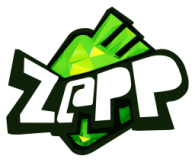
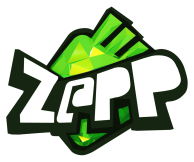
Added direct link to Giel on main page
Regenerate some images from original size to icon size

diff --git a/uitzendinggemist/dune/index.php b/uitzendinggemist/dune/index.php
@@ -20,17 +20,18 @@ async_icon_loading = yes
 	echo "background_order=before_all\n";
 	echo "background_path=$imgdir/background.jpg\n";
 
-    $varagemisturl = dirname($baseurl).'/varagemist/dune/';
+    $varagemisturl = dirname($baseurl).'/varagemist/';
     
     writeIcon($num++, 'Favorieten', 'dune_'.$baseurl.'/favorites.php', $imgdir.'/favorites.png');
     writeIcon($num++, 'Vandaag', 'dune_'.$baseurl.'/afleveringen.php?when=vandaag', $imgdir.'/uitzendinggemist_250.png');
     writeIcon($num++, 'Gisteren', 'dune_'.$baseurl.'/afleveringen.php?when=gisteren', $imgdir.'/uitzendinggemist_250.png');
 	writeIcon($num++, 'Genres', 'dune_'.$baseurl.'/genres.php', $imgdir.'/uitzendinggemist_250.png');
-	writeIcon($num++, 'Omroepen', 'dune_'.$baseurl.'/omroepen.php', $imgdir.'/nlkijkt.png');
+	writeIcon($num++, 'Omroepen', 'dune_'.$baseurl.'/omroepen.php', $imgdir.'/nlkijkt.jpg');
     writeIcon($num++, 'Regionale Omroepen', 'dune_'.$baseurl.'/regios.php', $imgdir.'/regionale_omroepen.png');
     writeIcon($num++, 'Programm\'s A..Z', 'dune_'.$baseurl.'/programmas_az.php', $imgdir.'/a-z.png');
     writeIcon($num++, 'Zapp (6 - 12 jaar)', 'dune_'.$baseurl.'/programmas.php?type=zapp', $imgdir.'/zapp.png');
     writeIcon($num++, 'Zappelin (2 - 5 jaar)', 'dune_'.$baseurl.'/programmas.php?type=zappelin', $imgdir.'/zappelin.png');
-    writeIcon($num++, 'VARA Gemist', 'dune_'.$varagemisturl, $imgdir.'/varagemist.png');
+    writeIcon($num++, 'VARA Gemist', 'dune_'.$varagemisturl.'dune/', $imgdir.'/varagemist.png');
+    writeIcon($num++, 'Giel', 'dune_'.$varagemisturl.'dune/giel.php', $varagemisturl.'/img/giel-logo.png');
     
 ?>

diff --git a/uitzendinggemist/html/index.php b/uitzendinggemist/html/index.php
@@ -19,7 +19,7 @@
 		<!--<tr><td><a href="programmas.php?when=vandaag">Vandaag</a/></td></tr>
 		<tr><td><a href="programmas.php?when=gisteren">Gisteren</a/></td></tr>-->
 		<tr>
-			<td><a href="omroepen.php"><img src="../img/nlkijkt.png"/>Omroepen</a/></td>
+			<td><a href="omroepen.php"><img src="../img/nlkijkt.jpg"/>Omroepen</a/></td>
 			<td><a href="regios.php"><img src="../img/regionale_omroepen.png"/>Regionale Omroepen</a/></td>
 			<td><a href="programmas_az.php"><img src="../img/a-z.png"/>Programma's A-Z</a/></td>
 		</tr>
@@ -27,6 +27,7 @@
 			<td><a href="../varagemist/html/"><img src="../img/varagemist.png"/>VARA Gemist</a/></td>
 			<td><a href="programmas.php?type=zapp"><img src="../img/zapp.png"/>Zapp (6 - 12 jaar)</a/></td>
 			<td><a href="programmas.php?type=zappelin"><img src="../img/zappelin.png"/>Zappelin (2 - 5 jaar)</a/></td>
+			<td><a href="../varagemist/html/giel.php"><img src="../varagemist/img/giel-logo.png"/>GIEL</a/></td>
 		</tr>
       </table>
 

diff --git a/uitzendinggemist/varagemist/html/index.php b/uitzendinggemist/varagemist/html/index.php
@@ -155,31 +155,6 @@ else
 }
 ?>
 
- <?php
- 	/*
-	$json = getVaraProgramList();
-    echo "<pre>";
-	//var_dump($json);
-    echo "</pre>";
-
-	foreach(getVaraProgramList()->allProgramsAndSites as $program)
-    {
-		echo "<pre>";
-		//var_dump($program);
-		echo "</pre>";
-		$id=substr($program->url, 28);
-		str_replace('http://omroep.vara.nl/media/', '', $program->url);
-        echo "<tr>\n";
-        echo '<td><a href="vara_programma.php?url='.urlencode($program->url).'">'.$program->title.'</a></td>';
-        //echo '<td>'.$program->tvChannelIndex || "".'</td>';
-        //echo '<td>'.$program->radioChannelIndex || "".'</td>';
-		echo '<td><a href="'.$program->url.'">omroep.vara.nl</a></td>';
-        echo "</tr>\n";
-    }*/
-
-
- ?>
-
   </body>
 </html>
 
